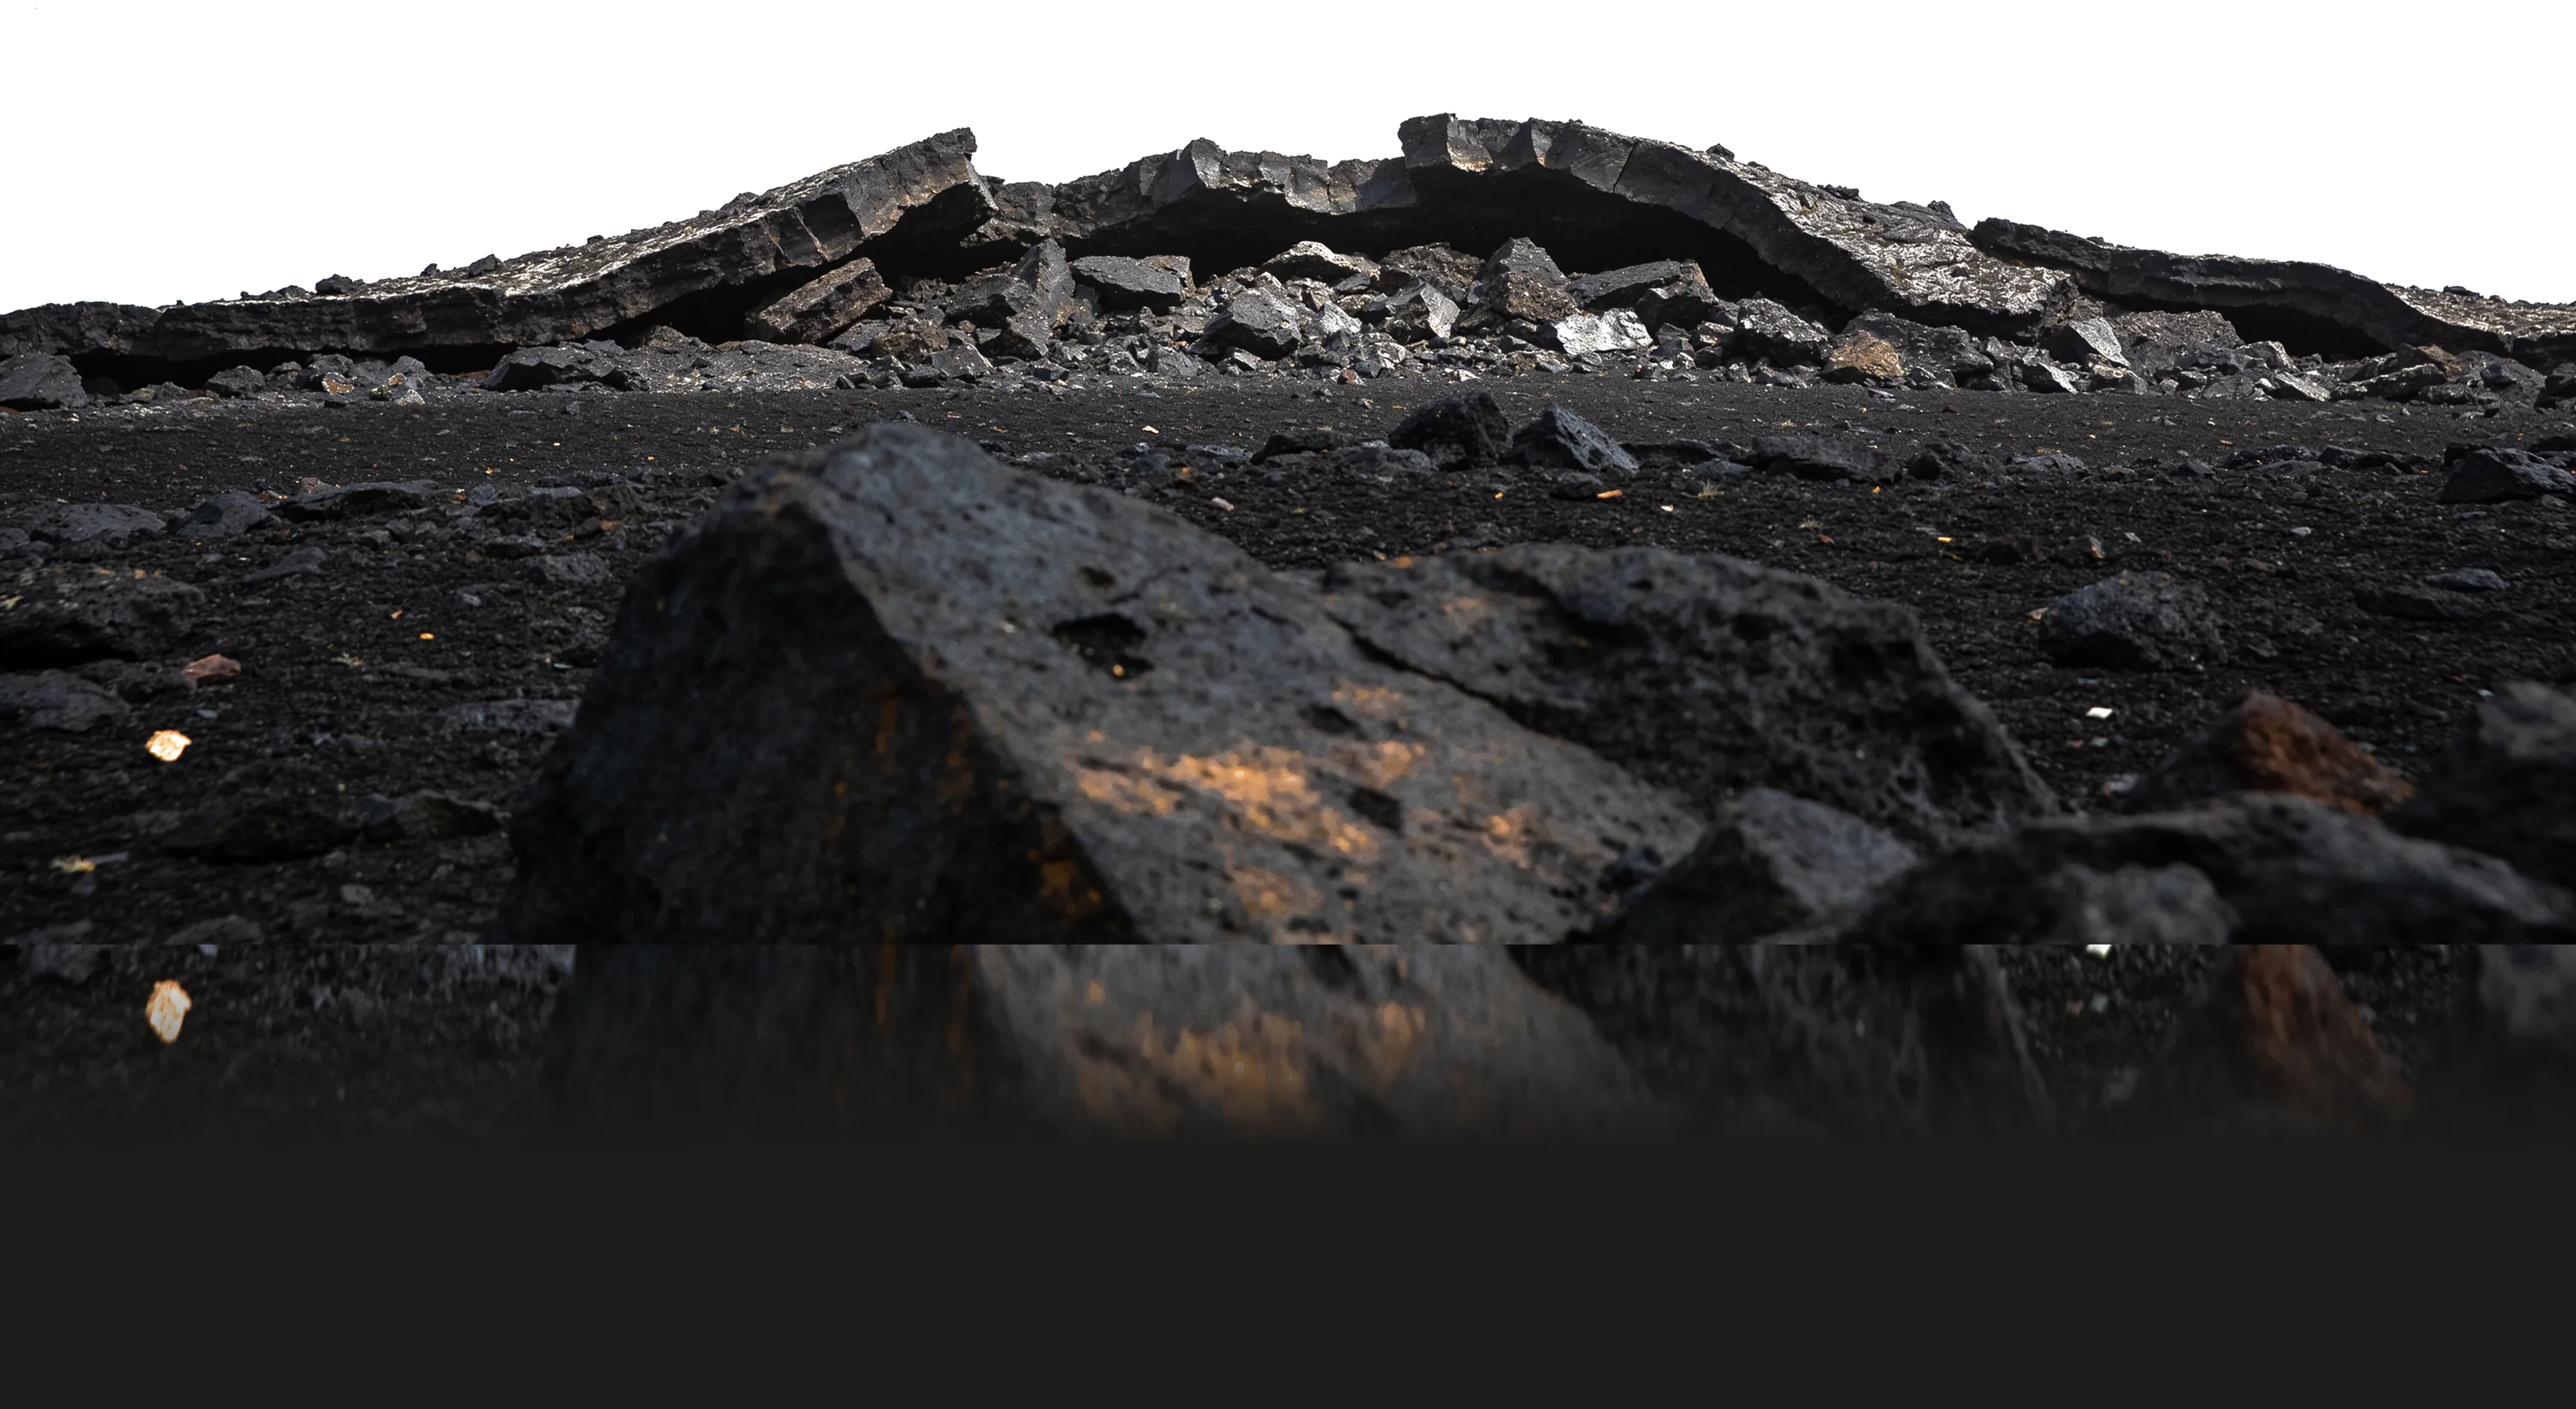
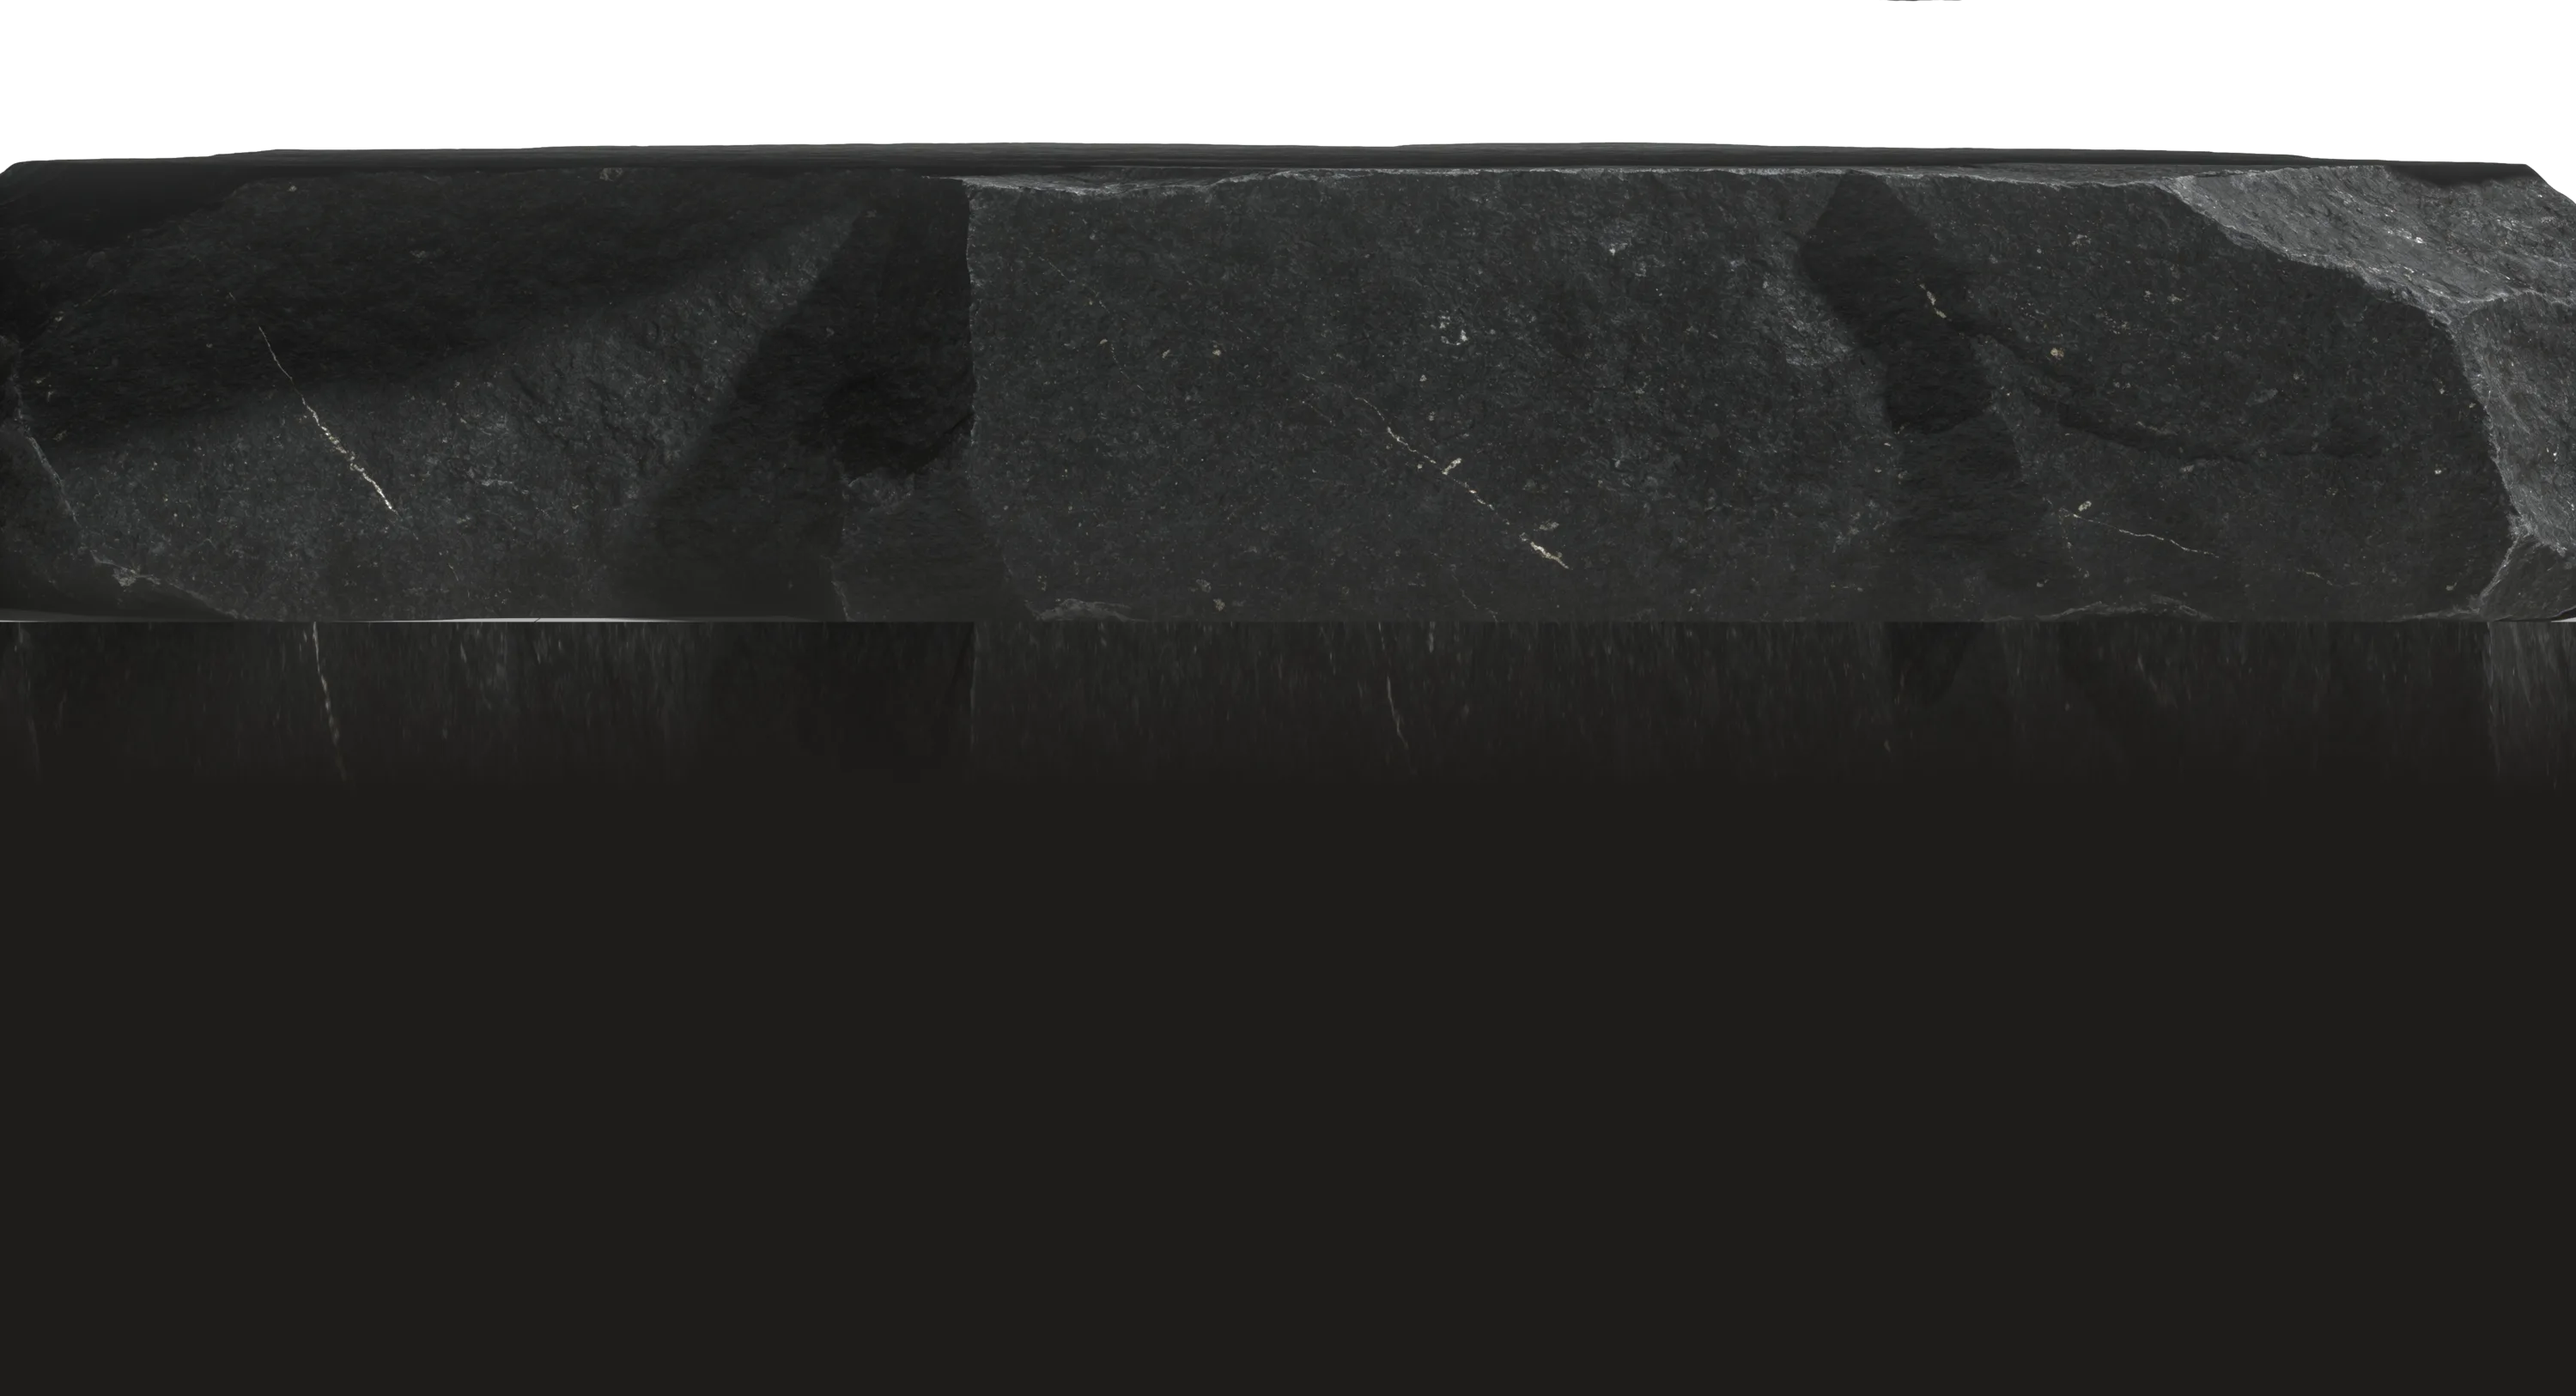
Katrín: monolithic stone, not rubble — and the ground carries down the page
Two corrections.

THE MATERIAL. The lava-field plate was a bad call and the screenshot made it
obvious: loose broken aggregate rising over her kitchen reads as a demolition
site, which is the opposite of what an interior architect sells. I optimised
for a silhouette I could key honestly, went looking for "real terrain", and
stopped asking what the material actually depicts. The brief had already said
MONOLITHIC and I read "volcanic".

Replaced with ONE solid mass of honed basalt, quarried and dressed, with a
single clean fractured top edge — the kind of stone she would specify. Keyed
the same honest way (block 31-57 luminance against a 224-233 ground, so the
cut is a threshold through a wide gap and the silhouette is the stone's own
fracture line). Alpha profile 0/0/0/253/255... — one hard edge, no debris.
The plate is lighter too: 137 KB against 404 KB.

Its lower body is a stretch of its own deepest band under a grade into
#1d1b19, and that grade now starts 200px ABOVE the join so the seam where the
photograph ends is already dark before it arrives, instead of showing as a
horizontal line across the descent.

Geometry re-solved for the new plate: edge 10.5% down a 2705px plate, top
66.5% of the layer box, yPercent 25, scale to 1.5. Edge through the scroll:
89% / 65% / 42% / 19% / -5% of the viewport, body reaching 891px on an 800px
frame — occlusion from the bottom upward, kitchen untouched at rest.
[…]

diff --git a/src/preview/katrinisfeld/Home.tsx b/src/preview/katrinisfeld/Home.tsx
@@ -73,22 +73,30 @@ const HERO_LAYERS: ReadonlyArray<ParallaxLayer> = [
     src: `${ASSET}/rs/s-eldhus-vitt-1500.webp`,
     alt: 'Eldhús í Súluhöfða með vínrauðri eyju, koparljósum og útsýni yfir voginn' },
 
-  /* Layer 4 — the ground. One photograph of Icelandic basalt terrain, shot
-     from ground level, its sky keyed off so the silhouette is the real
-     contour of the lava field rather than a curve drawn in a mask. It enters
-     from the BOTTOM EDGE only: at rest its contour sits at ~89% of the
-     viewport, so the room keeps the frame. Scrolling rises it and scales it
-     about its top edge — the camera descending toward ground it is about to
-     go under — until it occludes the room from the bottom up. Its own deeper
-     material is graded into #1d1b19, so the descent ends on the site's ground
-     colour by the material rather than by a black overlay dropped on top. */
-  { layer: '4', width: 3000, height: 1641,
+  /* Layer 4 — the stone. ONE monolithic mass of honed basalt, quarried and
+     dressed, with a single clean fractured top edge: the kind of stone she
+     would actually specify. The first attempt at this was a lava field, and
+     a lava field is loose aggregate — rising over her kitchen it read as a
+     construction site, which is the opposite of what the page sells. The
+     background above the block is keyed off (block 31-57 luminance, ground
+     224-233), so the silhouette is the stone's own fracture line rather than
+     a curve drawn in a mask.
+
+     It is NOT full-bleed. It enters from the BOTTOM EDGE only: at rest its
+     edge sits at ~89% of the viewport, so the room keeps the frame. Scroll
+     rises it and scales it about its top edge — the camera descending toward
+     stone it is about to pass under — until it occludes the room from the
+     bottom upward. Its own deeper material is graded into #1d1b19, so the
+     descent lands on the site's ground colour through the material rather
+     than a black overlay dropped on top. */
+  { layer: '4', width: 3000, height: 1626,
     src: `${ASSET}/terrain-plate.webp`, alt: '',
-    yPercent: 22, scaleTo: 1.5,
+    yPercent: 25, scaleTo: 1.5,
     /* top is a % of the LAYER BOX, which is 120% of the viewport (the
-       registry hangs .parallax__visuals 20% below the header) — 62.5% of
-       that is 75% of the viewport, which puts the keyed contour at ~89%. */
-    geom: { top: '62.5%', height: 'auto', aspectRatio: '3000 / 1641' } },
+       registry hangs .parallax__visuals 20% below the header), so 66.5% of
+       it is ~80% of the viewport; the edge sits 10.5% down the plate, which
+       puts it at ~89%. */
+    geom: { top: '66.5%', height: 'auto', aspectRatio: '3000 / 1626' } },
 ]
 
 

diff --git a/src/preview/katrinisfeld/styles.ts b/src/preview/katrinisfeld/styles.ts
@@ -912,6 +912,35 @@ html[data-ki-seen] .ki-hero-cta { animation-delay: 0s; }
 @media (max-width: 991px) { .ki-dome-title { white-space: normal; } }
 @media (max-width: 640px) { .ki-dome { padding-left: 20px; padding-right: 20px; } }
 
+/* THE GROUND, CARRIED DOWN THE PAGE.
+   The hero descends into #1d1b19 and the page stays in that ground for the
+   whole projects journey — but where it finally returned to the light
+   palette it did it on a hard horizontal line, which reads as the page
+   cutting to a white template rather than as the ground giving way. Both
+   light bands sit directly under a dark one, so the change dissolves over a
+   band instead of cutting. The dissolve is painted on the BOTTOM of the dark
+   section rather than the top of the light one: fading a section into cream
+   from its own colour has nothing to mismatch, whereas starting a gradient
+   at CHARCOAL under a section that is actually rgb(36,27,25) left a visible
+   line. And it is a background-image, not a ::before, because a positioned
+   pseudo-element paints ABOVE in-flow text and would grey the copy. */
+[data-ki-band='dark']:has(+ [data-ki-band='light']) {
+  background-image: linear-gradient(
+    to bottom,
+    rgb(239 234 226 / 0) 0,
+    rgb(239 234 226 / 0.10) 30%,
+    rgb(239 234 226 / 0.38) 58%,
+    rgb(239 234 226 / 0.74) 82%,
+    ${CREAM} 100%
+  );
+  background-repeat: no-repeat;
+  background-position: bottom;
+  /* kept under the 86px of clearance the nearest copy in these sections has
+     above their bottom edge — a taller band washes cream up behind
+     "Fjölmiðlar"/"Stemning" and collapses their contrast */
+  background-size: 100% clamp(52px, 7vh, 80px);
+}
+
 /* ── responsive ───────────────────────────────────────────────────────── */
 @media (max-width: 991px) {
   .ki-grid { --cols: 2; }
